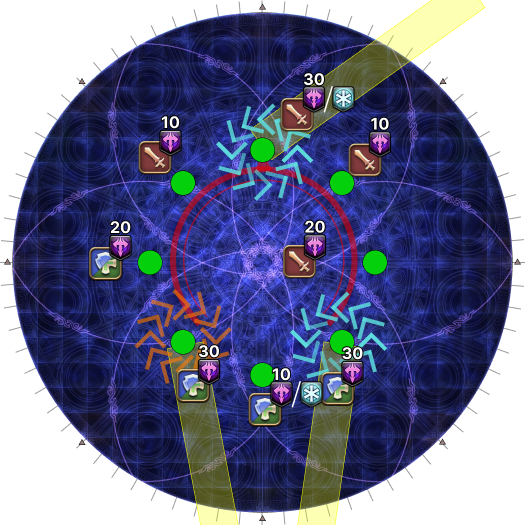
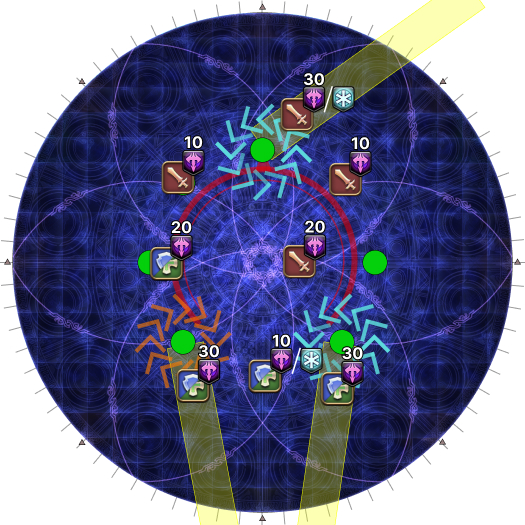
Correct record position

Changed region(s): [[0.1524, 0.2133, 0.7314, 0.8229], [0.4267, 0.2133, 0.579, 0.3657], [0.6095, 0.2133, 0.7619, 0.3962]]

diff --git a/_ultimates/fru/03_oracle_of_darkness.en.md b/_ultimates/fru/03_oracle_of_darkness.en.md
@@ -134,7 +134,8 @@ The good news is that once you have your assigned hourglass, you can basically r
 - If it's your turn to resolve *Dark Fire III*, do so outside.
 - If your hourglass starts spinning, go bait the laser beam.
 - If it's your turn to record, do so just a little off from the center, unless 
-  you are one of the short Fires.
+  you are one of the short Fires or the mid Fire tank/healer, in which case 
+  record *just* behind your hourglass.
 
 Essentially, each player only needs to move in a straight line from the center 
 of the arena, through their assigned hourglass to the edge to resolve their 
